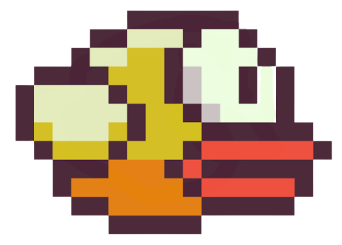
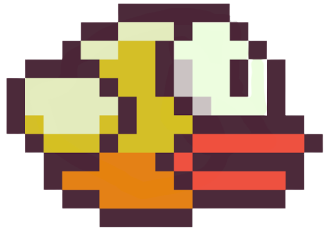
setup menu 1

Changed region(s): [[0.0, 0.0, 1.0, 0.9914]]

diff --git a/flappybird.py b/flappybird.py
@@ -88,12 +88,27 @@ class AuthorView(arcade.View):
             self.window.show_view(menu_view)
 
 class SetUpView(arcade.View):
+    def __init__(self):
+        super().__init__()
+        self.blue = arcade.load_texture("bluebird.png")
+        self.yellow = arcade.load_texture("flappybird.png")
+        self.red = arcade.load_texture("redbird.png")
     def on_show(self):
         arcade.set_background_color(arcade.csscolor.LIGHT_BLUE)
     def on_draw(self):
         arcade.start_render()
-        arcade.draw_text("Setup", SCREEN_WIDTH/2, 300, arcade.color.BLACK, 50, anchor_x= "center")
+        arcade.draw_text("Choose your character", SCREEN_WIDTH/2, 300, arcade.color.BLACK, 40, anchor_x= "center")
         arcade.draw_text("Click Q to go back", SCREEN_WIDTH/8, 350, arcade.color.EBONY, 10, anchor_x= "center")
+        self.blue.draw_sized(SCREEN_WIDTH / 4, SCREEN_HEIGHT / 2, 100, 80)
+        self.yellow.draw_sized(SCREEN_WIDTH / 2, SCREEN_HEIGHT / 2, 100, 80)
+        self.red.draw_sized(3*SCREEN_WIDTH/4, SCREEN_HEIGHT / 2, 100, 80)
+        arcade.draw_text("Click B", SCREEN_WIDTH / 4, 80, arcade.color.WHITE, 20, anchor_x= "center")
+        arcade.draw_text("Click Y", SCREEN_WIDTH/2, 80, arcade.color.WHITE, 20, anchor_x= "center")
+        arcade.draw_text("Click R", 3*SCREEN_WIDTH / 4,80, arcade.color.WHITE, 20, anchor_x= "center")
+    def on_key_press(self, symbol, modifiers):
+        if symbol == arcade.key.Q:
+            menu_view = MenuView()
+            self.window.show_view(menu_view)
             
 class GameOverView(arcade.View):
     def on_show(self):
